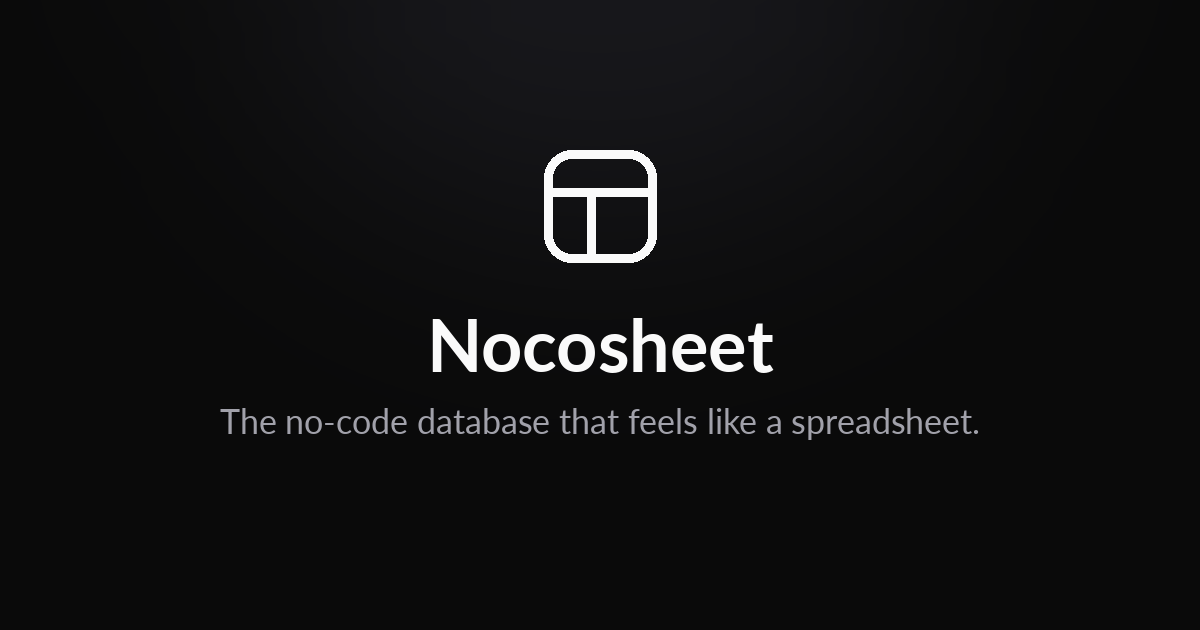
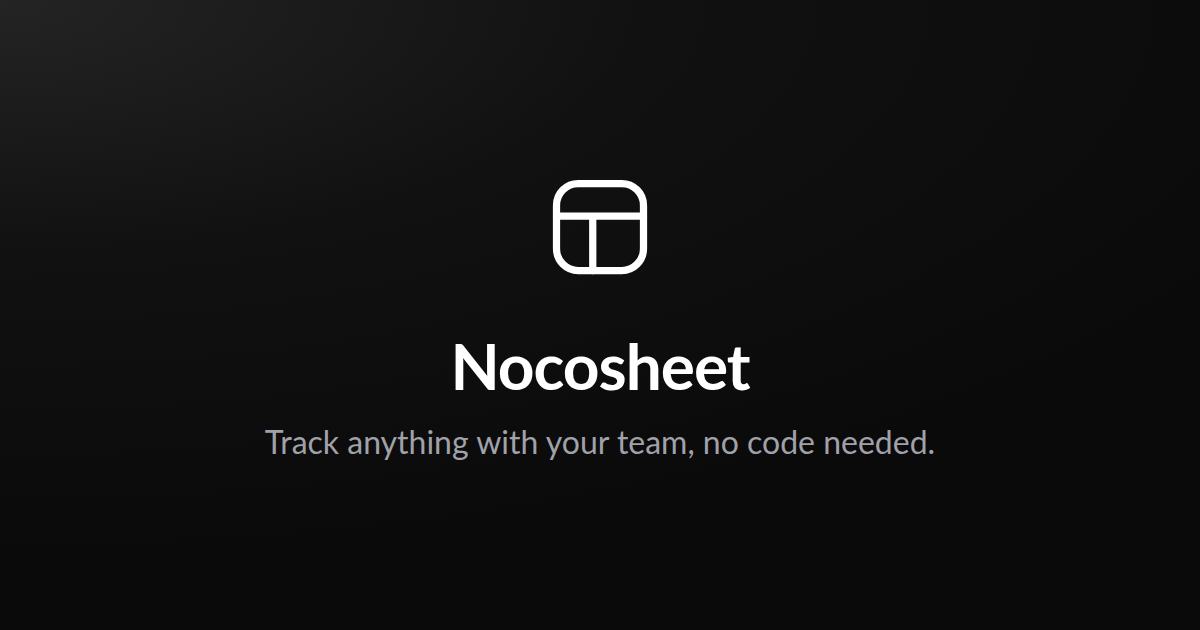
feat: update README and meta descriptions for clarity; enhance feature descriptions in auth panel

Changed region(s): [[0.185, 0.5127, 0.8325, 0.7238], [0.4317, 0.2111, 0.555, 0.4524], [0.0, 0.0, 0.0308, 0.0302]]

diff --git a/index.html b/index.html
@@ -3,37 +3,37 @@
   <head>
     <meta charset="UTF-8" />
     <meta name="viewport" content="width=device-width, initial-scale=1.0" />
-    <title>Nocosheet: the no-code database that feels like a spreadsheet</title>
+    <title>Nocosheet: track anything with your team, no code needed</title>
     <meta
       name="description"
-      content="Self-hosted, offline-first no-code database. Model your data, manage records, work offline and filter by just asking."
+      content="An open-source, offline-first no-code tool to track anything with your team. Set up tables, invite your team, work offline and find anything by just asking."
     />
     <meta property="og:type" content="website" />
     <meta property="og:site_name" content="Nocosheet" />
     <meta
       property="og:title"
-      content="Nocosheet: the no-code database that feels like a spreadsheet"
+      content="Nocosheet: track anything with your team, no code needed"
     />
     <meta
       property="og:description"
-      content="Self-hosted, offline-first no-code database. Model your data, manage records, work offline and filter by just asking."
+      content="An open-source, offline-first no-code tool to track anything with your team. Set up tables, invite your team, work offline and find anything by just asking."
     />
     <meta property="og:image" content="/og.png" />
     <meta property="og:image:width" content="1200" />
     <meta property="og:image:height" content="630" />
     <meta
       property="og:image:alt"
-      content="Nocosheet: the no-code database that feels like a spreadsheet"
+      content="Nocosheet: track anything with your team, no code needed"
     />
     <meta name="twitter:card" content="summary_large_image" />
     <meta name="twitter:site" content="@nocosheet" />
     <meta
       name="twitter:title"
-      content="Nocosheet: the no-code database that feels like a spreadsheet"
+      content="Nocosheet: track anything with your team, no code needed"
     />
     <meta
       name="twitter:description"
-      content="Self-hosted, offline-first no-code database. Model your data, manage records, work offline and filter by just asking."
+      content="An open-source, offline-first no-code tool to track anything with your team. Set up tables, invite your team, work offline and find anything by just asking."
     />
     <meta name="twitter:image" content="/og.png" />
     <link rel="icon" type="image/svg+xml" href="/icons.svg" />

diff --git a/src/components/auth/auth-brand-panel.tsx b/src/components/auth/auth-brand-panel.tsx
@@ -1,25 +1,25 @@
-import { CloudIcon, CodeXmlIcon, MousePointerClickIcon, Table2Icon } from "lucide-react";
+import { LockIcon, MousePointerClickIcon, Table2Icon, WifiOffIcon } from "lucide-react";
 
 const features = [
   {
     icon: MousePointerClickIcon,
-    title: "Fully no-code",
-    description: "Create tables, fields and relations straight from the UI.",
+    title: "No code needed",
+    description: "Set up tables, fields and links between them in a few clicks.",
   },
   {
     icon: Table2Icon,
-    title: "Spreadsheet-style grid",
-    description: "Browse and edit your records the way you already work.",
+    title: "Feels like a spreadsheet",
+    description: "Browse and edit your tables the way you already work.",
   },
   {
-    icon: CloudIcon,
-    title: "Self-host on Cloudflare",
-    description: "Runs on your own account with Workers, D1, R2 and more.",
+    icon: WifiOffIcon,
+    title: "Works offline",
+    description: "Open your tables anywhere and your changes are saved when you reconnect.",
   },
   {
-    icon: CodeXmlIcon,
-    title: "Open source",
-    description: "Read the code, extend it and make it yours.",
+    icon: LockIcon,
+    title: "Your data stays yours",
+    description: "Open source, with full control over who in your team sees what.",
   },
 ];
 
@@ -28,10 +28,10 @@ export function AuthBrandPanel() {
     <aside className="hidden flex-col justify-center gap-8 border-l bg-muted/50 p-10 md:flex">
       <div className="flex flex-col gap-2">
         <h2 className="font-semibold text-2xl leading-tight tracking-tight">
-          Your data, modelled and published without code.
+          Track anything with your team, no code needed.
         </h2>
         <p className="text-muted-foreground text-sm">
-          An open-source no-code CMS and spreadsheet-style database.
+          An open-source, offline-first no-code tool that feels like a spreadsheet.
         </p>
       </div>
       <ul className="flex flex-col gap-5">

diff --git a/README.md b/README.md
@@ -1,25 +1,26 @@
 # Nocosheet
 
-An open-source, offline-first no-code database. Build tables, work with records in a spreadsheet-style grid, and share them with your team. Self-host it on Cloudflare, one deployment per team.
+An open-source, offline-first no-code tool to track anything with your team. Set up tables for clients, jobs, tickets or whatever you track today in spreadsheets, invite your team, work offline and find anything by just asking. Runs on your own Cloudflare account, one installation per team.
 
 <picture>
   <source media="(prefers-color-scheme: dark)" srcset="docs/screenshot-dark.webp" />
   <img alt="Nocosheet" src="docs/screenshot-light.webp" />
 </picture>
 
-## Features
+## What you get
 
-- **Tables and columns**: create tables with a wizard, import columns from CSV, start from bundled templates.
-- **Records grid**: search, filters, sorting, column summaries, inline editing and record sheets.
-- **Relations and files**: link records with pickers, add file and image columns.
-- **Saved views**: save column subsets and filters as views.
-- **Import and export**: CSV import and export.
-- **Trash**: deleted tables, columns and records are restored from the trash within 30 days.
-- **Access control**: administrators and members, with access profiles that grant per-table permissions.
-- **Workspace**: home page with stats and recent tables, sidebar with search and favorites, members and audit log.
-- **Offline-first**: data is stored in the browser, so tables open instantly and records can be created, edited and deleted offline. Changes sync when the connection returns.
-- **Installable**: works as a PWA and opens without a connection.
-- **Authentication**: password, passkey, two-factor, Google sign-in, and account management.
+- **Tables in a few clicks**: create tables with a guided setup, bring in columns from a CSV file, or start from a ready-made template.
+- **A grid that feels like a spreadsheet**: search, filter, sort, column summaries, edit right in the grid or open a row in its own panel.
+- **Links and files**: link rows to rows in other tables, attach files and images.
+- **Saved views**: save the columns and filters you use most as a view your team can open any time.
+- **Import and export**: bring spreadsheets in from CSV and export any table or view back to CSV.
+- **Ask in your own words**: describe what you want to see and the assistant applies the filters and sorts for you. It only looks, it never changes anything.
+- **Trash**: deleted tables, fields and rows can be restored within 30 days.
+- **Who sees what**: administrators and members, with access profiles that set permissions table by table.
+- **Workspace**: a home page with stats and recent tables, a sidebar with search and favorites, members and an audit log.
+- **Works offline**: your tables open instantly and rows can be added, edited and deleted without a connection. Changes are saved when you reconnect.
+- **Installable**: add it to your home screen or desktop like any app.
+- **Sign-in**: password, passkey, two-factor, Google sign-in, and account management.
 
 ## Run locally
 
